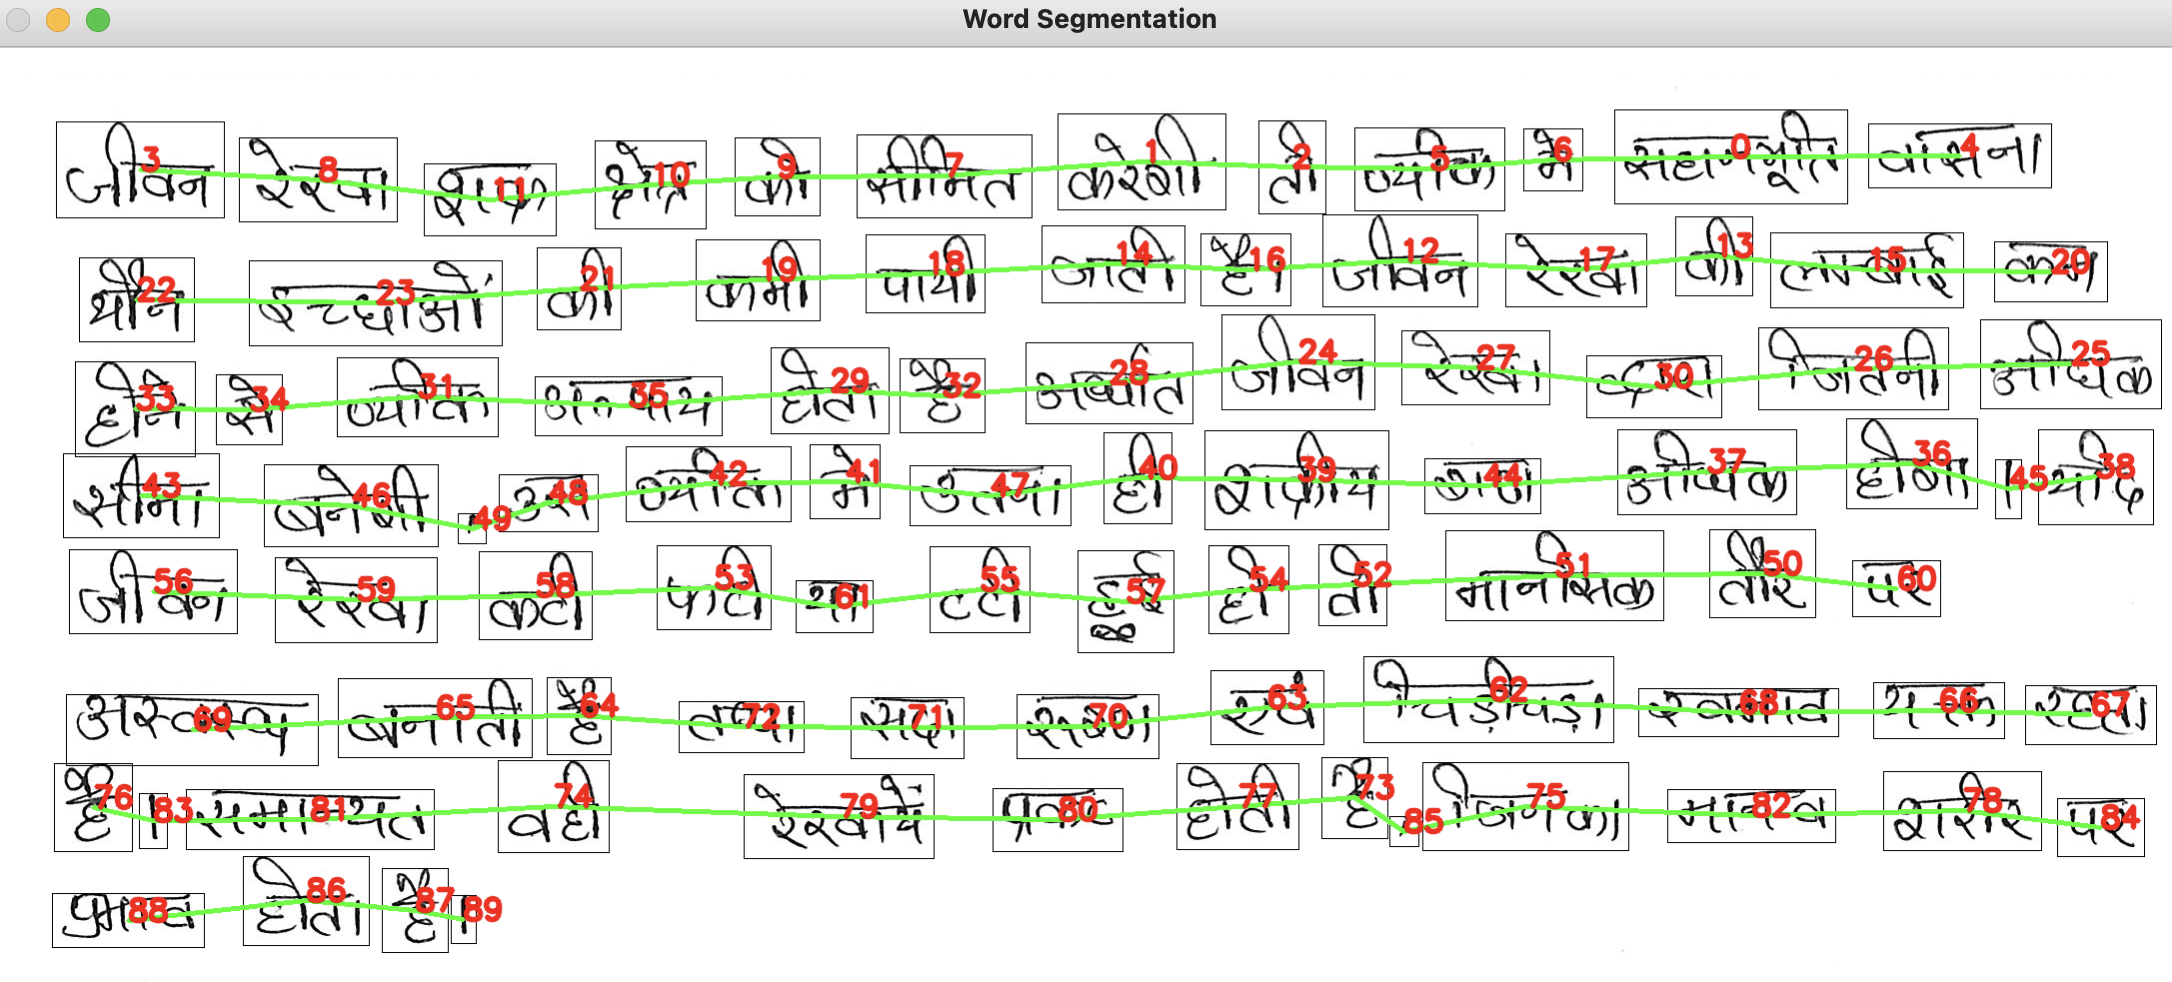
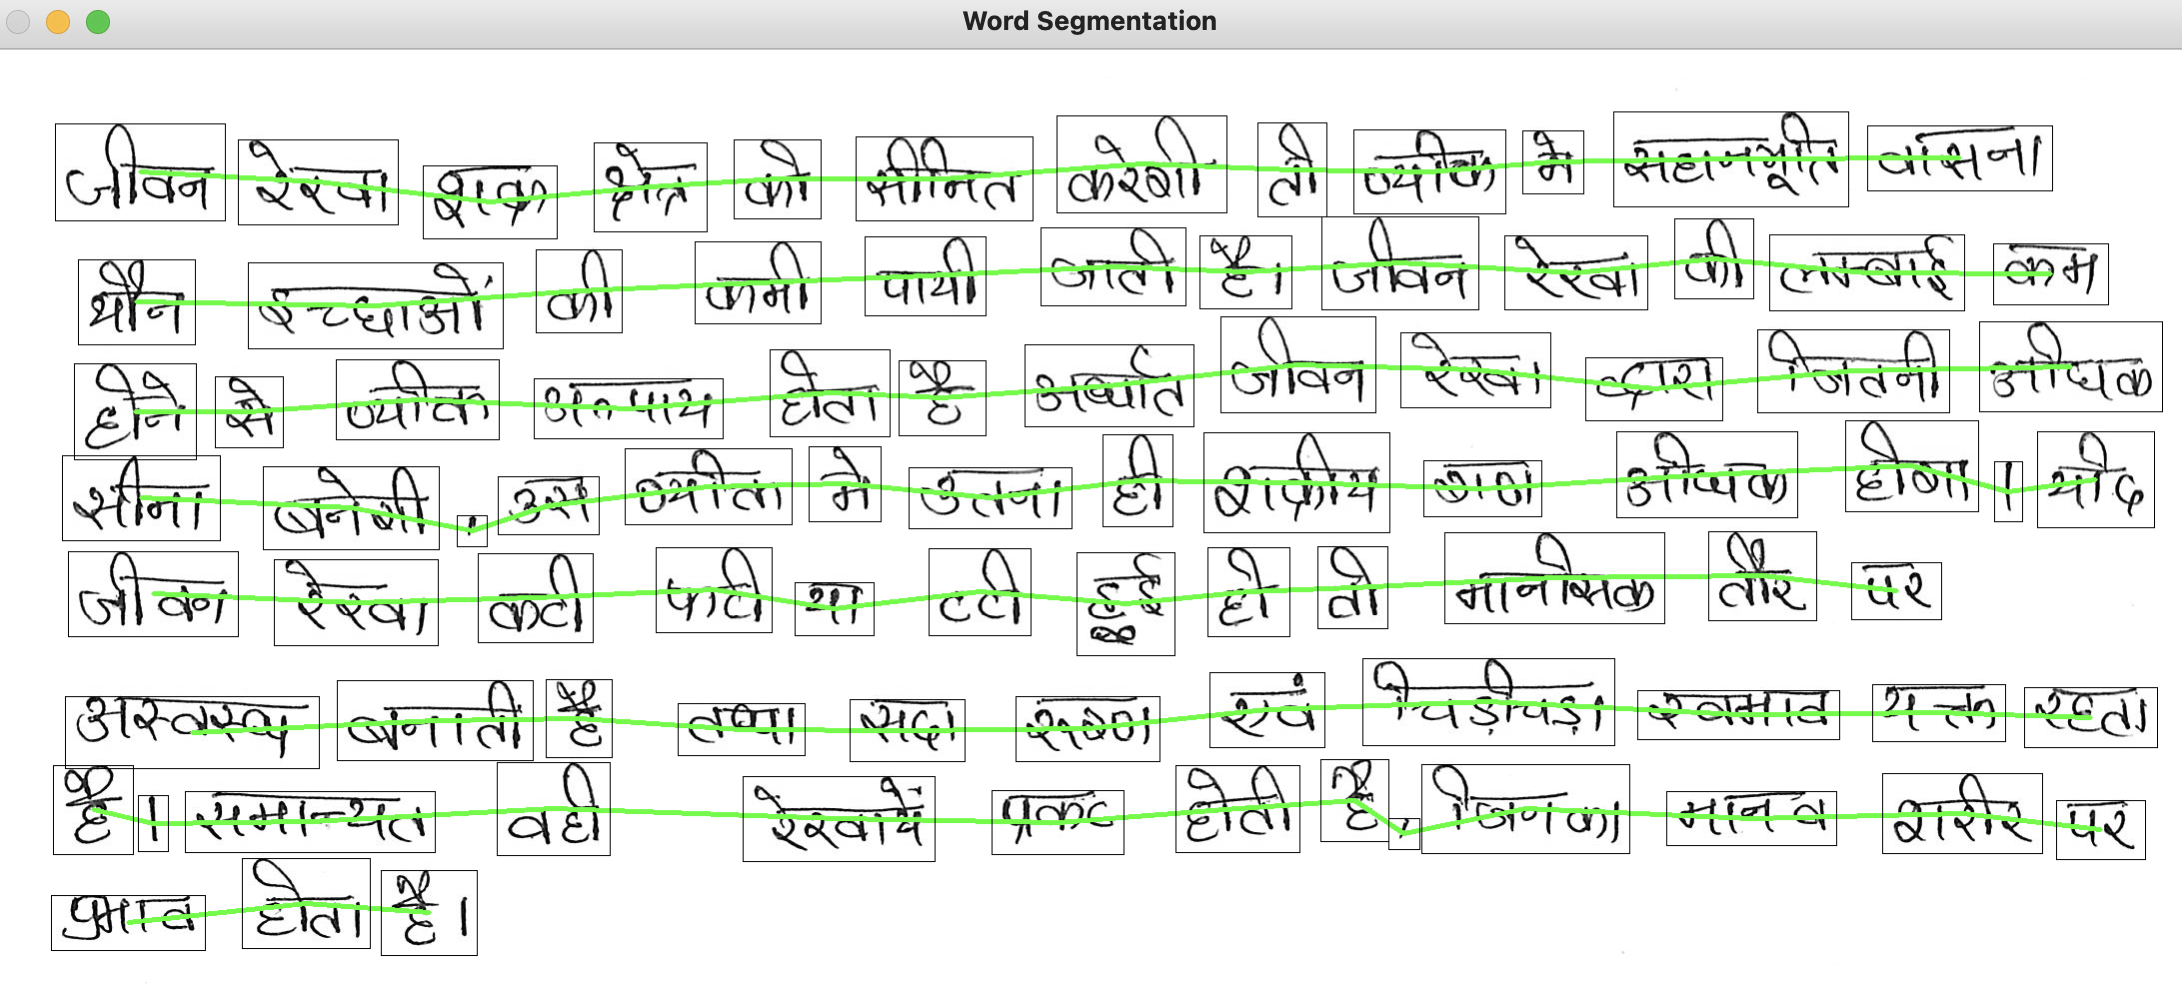
comment code to print the numbers on box and modify the screenshot

Changed region(s): [[0.0308, 0.0916, 1.0, 0.9776], [0.4319, 0.0, 0.5552, 0.0611], [0.0, 0.0305, 0.0617, 0.0611]]

diff --git a/main.py b/main.py
@@ -56,9 +56,11 @@ def main(argv, LineSegmentation: bool):
         name = filename[0:0+len(filename)-4]
         for _ in range(len(lines)):
             for i in range(len(lines[_])):
-                x, y, h, w = lines[_][i][0][0], lines[_][i][0][1], abs(lines[_][i][0][0]-lines[_][i][0][2]), abs(lines[_][i][0][1]-lines[_][i][0][3])
+                x, y, h, w = lines[_][i][0][0], lines[_][i][0][1], abs(
+                    lines[_][i][0][0]-lines[_][i][0][2]), abs(lines[_][i][0][1]-lines[_][i][0][3])
                 single_word = img[x:x+h, y:y+w]
-                cv.imwrite(f"./result/{name}_" + str(cnt) + ".png", single_word)
+                cv.imwrite(f"./result/{name}_" +
+                           str(cnt) + ".png", single_word)
                 cnt = cnt+1
 
         # to create the joining lines between the boxes and write the indexes of the boxes
@@ -71,12 +73,12 @@ def main(argv, LineSegmentation: bool):
                 thickness = 3
                 cv.line(img, startPoint, endPoint, color, thickness=thickness)
 
-            for i in range(len(lines[_])):
-                box1, msg = lines[_][i][0], str(lines[_][i][1])
-                x, y = (box1[1] + box1[3]) // 2, (box1[0] + box1[2]) // 2
-                font = cv.FONT_HERSHEY_SIMPLEX
-                cv.putText(img, msg, (x, y), font, 1,
-                           (0, 0, 255), 3, cv.LINE_AA)
+            # for i in range(len(lines[_])):
+            #     box1, msg = lines[_][i][0], str(lines[_][i][1])
+            #     x, y = (box1[1] + box1[3]) // 2, (box1[0] + box1[2]) // 2
+            #     font = cv.FONT_HERSHEY_SIMPLEX
+            #     cv.putText(img, msg, (x, y), font, 1,
+            #                (0, 0, 255), 3, cv.LINE_AA)
 
         # to create the bounding boxes
         for contour in contours:
@@ -85,12 +87,12 @@ def main(argv, LineSegmentation: bool):
                          (contour[3], contour[2]), color, thickness=1)
 
     # Scaling the image
-    scale_percent = SCALE_FACTOR * 100 # percent of original size
+    scale_percent = SCALE_FACTOR * 100  # percent of original size
     width = int(img.shape[1] * scale_percent / 100)
     height = int(img.shape[0] * scale_percent / 100)
     dim = (width, height)
-    resized = cv.resize(img, dim, interpolation = cv.INTER_AREA)
- 
+    resized = cv.resize(img, dim, interpolation=cv.INTER_AREA)
+
     cv.imshow('Binarised Image', BnW_image)
     cv.imshow('Distance transform', distTransform)
     cv.imshow('Transformed image', final_img)

diff --git a/README.md b/README.md
@@ -25,7 +25,7 @@ The proper word level segmentation of printed or handwritten text is an importan
 4. To run the code (with image as *myFile.png*)
 
    ```bash coderunner.sh myFile.png```
-5. You can also provide additional flags `-d`, `-b` and `s`, `-d` represents the *Distance Transform Threshold* , `-b` represent the *Image Binarisation Threshold* and `s` represent the scaling factor
+5. You can also provide additional flags `-d`, `-b` and `-s`, `-d` represents the *Distance Transform Threshold* , `-b` represent the *Image Binarisation Threshold* and `-s` represent the scaling factor
 
    ```bash coderunner.sh -d 10 -b 200 -s 1 myFile.png```
 
